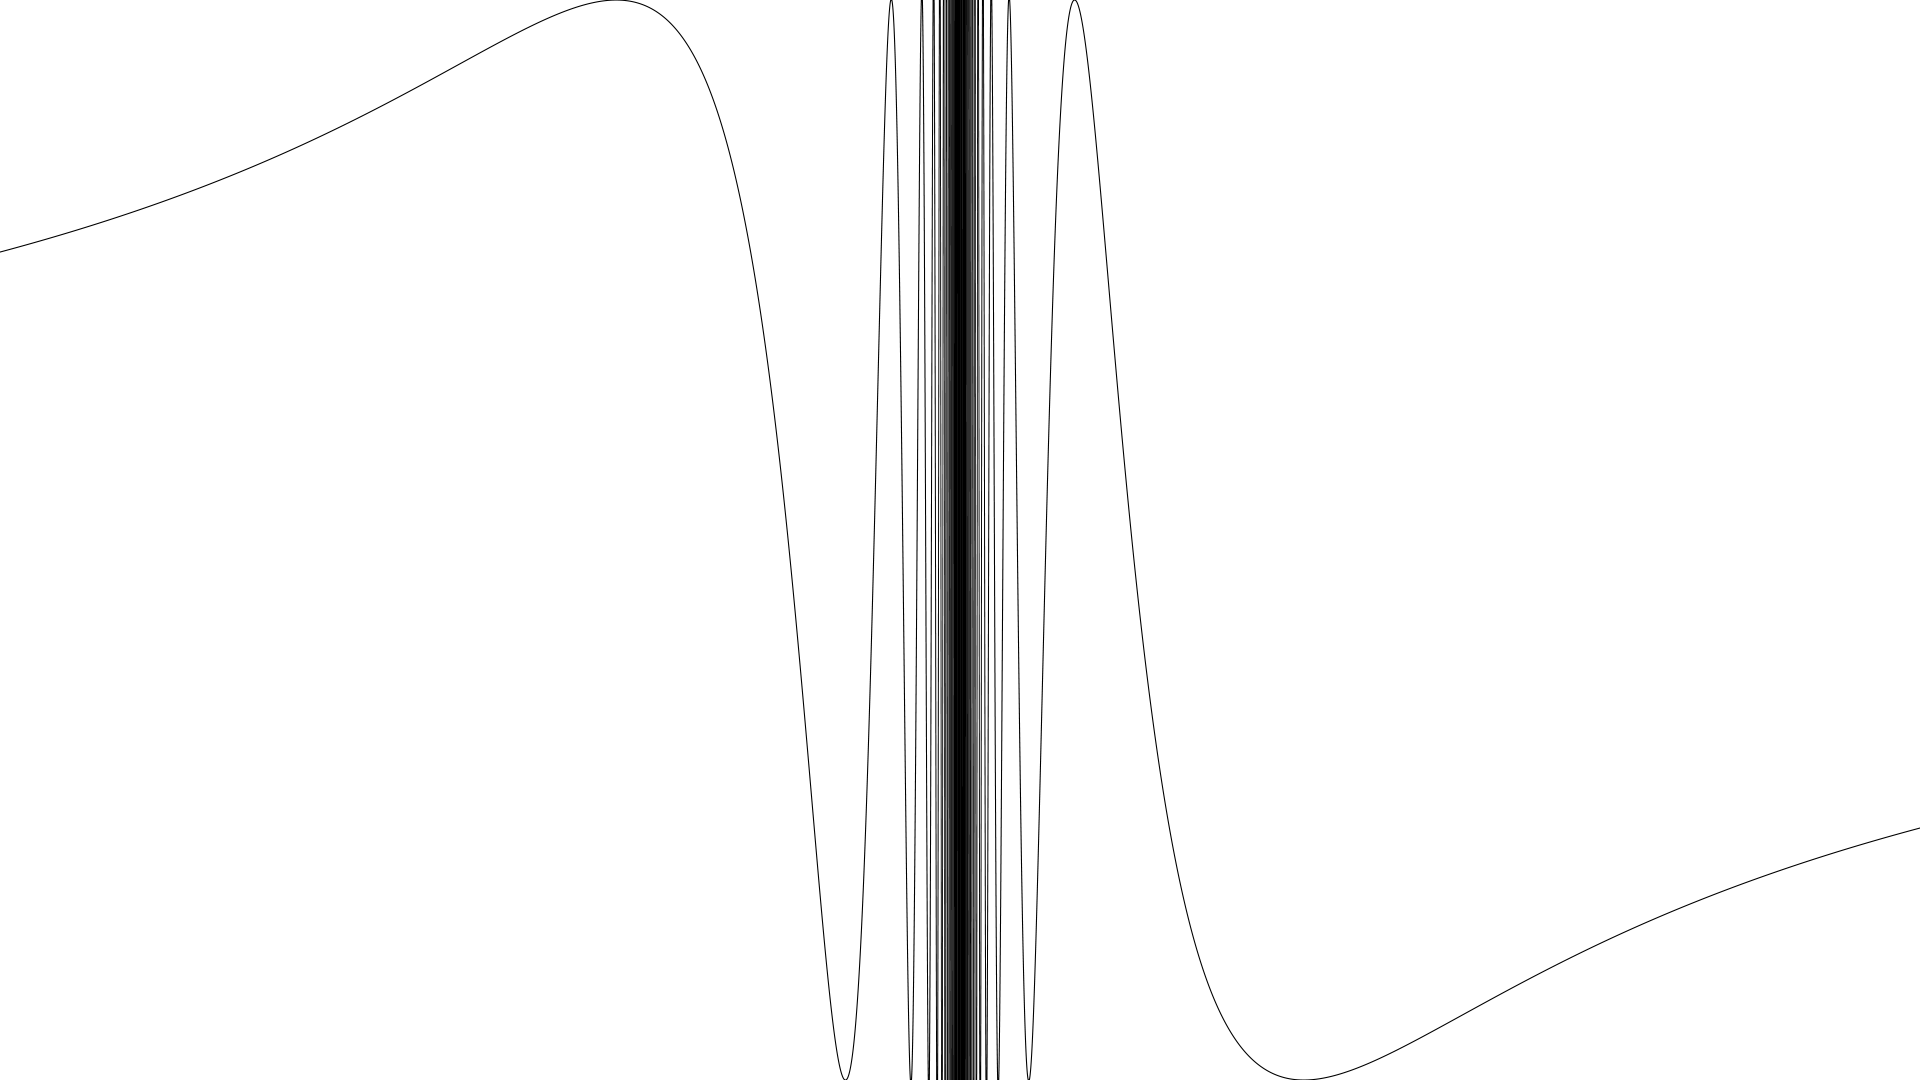
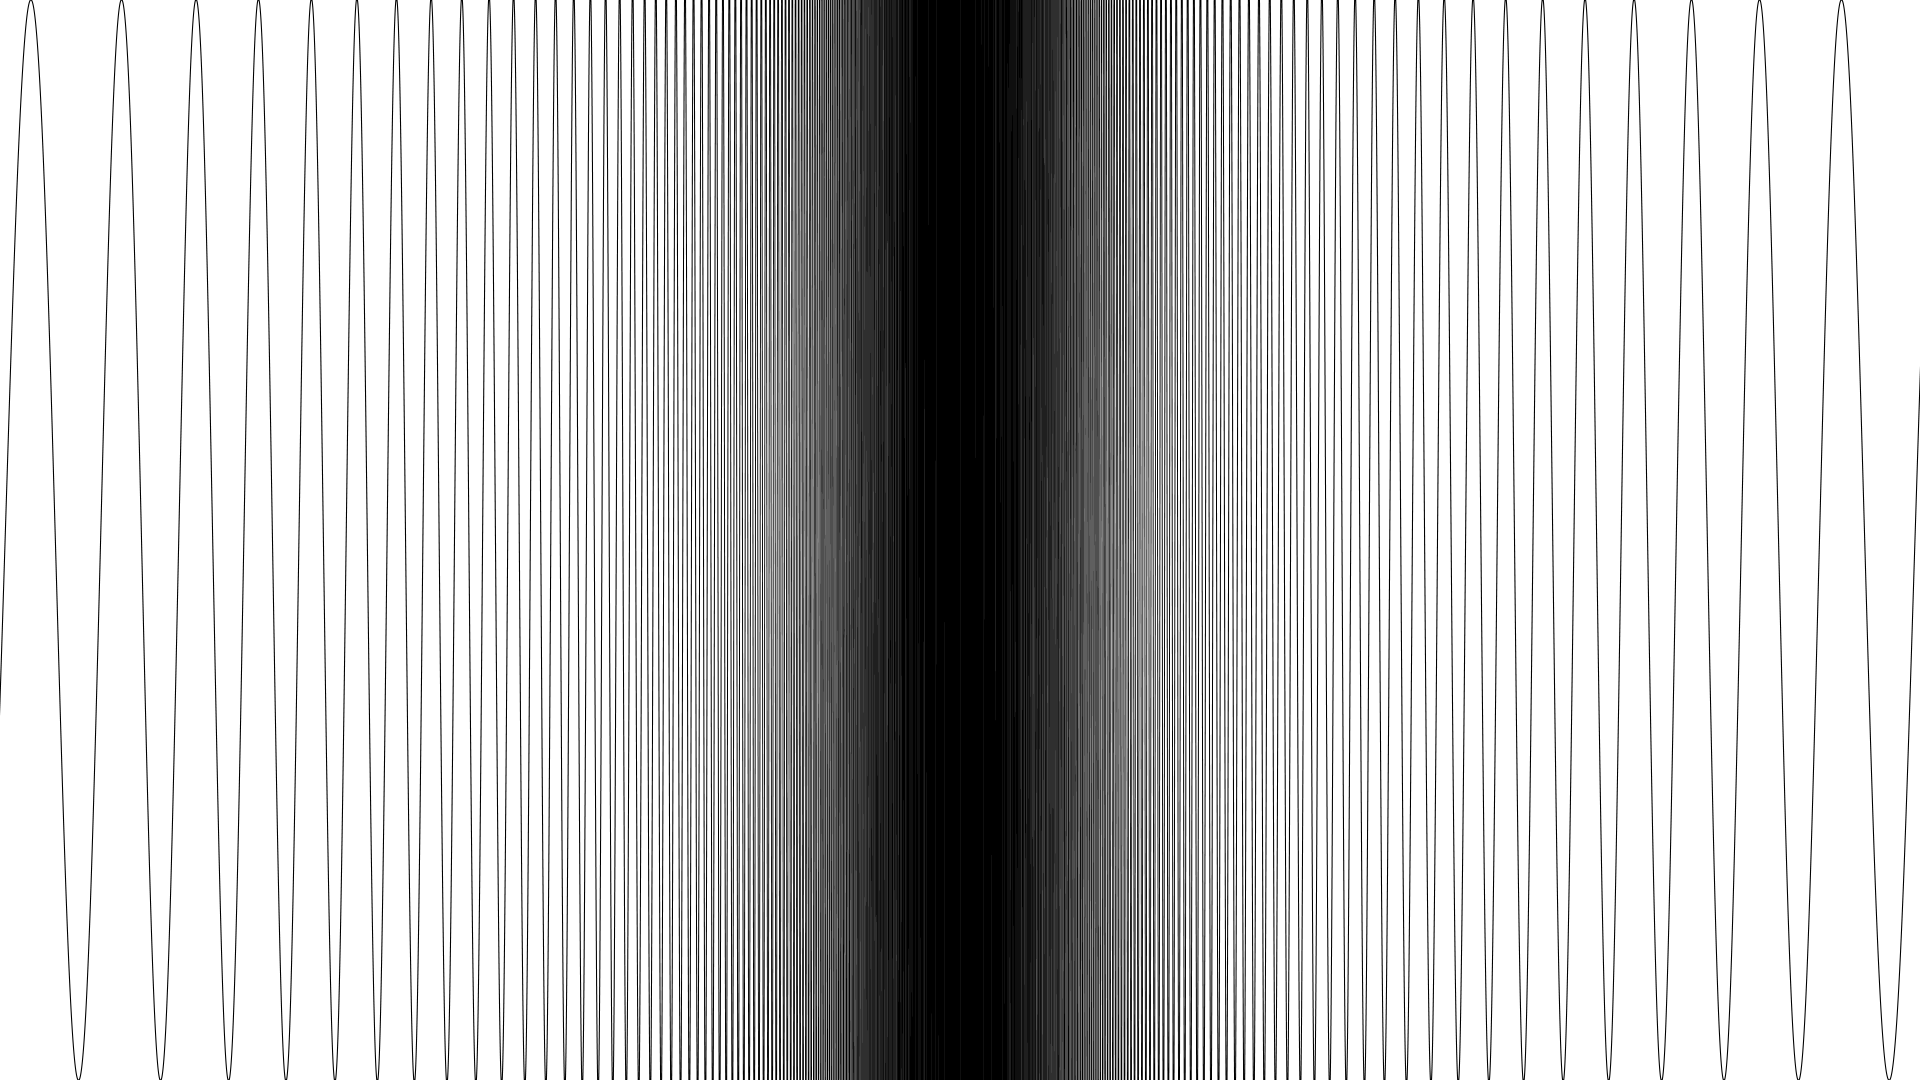
Move the code that determines whether there is a near root to a separate function. Add a parameter `stretch` in the example with sin(1/x).

diff --git a/src/lib.rs b/src/lib.rs
@@ -107,6 +107,18 @@ where
     }
 }
 
+// Checks whether there is at least one root of f(x, y) at the distance at most
+// `max_distance` from the point (x0, y0).
+fn has_near_root<F, G>(f: &F, gradient: &G, x0: f64, y0: f64, max_distance: f64) -> bool
+where
+    F: Fn(f64, f64) -> f64,
+    G: Fn(f64, f64) -> (f64, f64) {
+    let (gx, gy) = gradient(x0, y0);
+    let gradient_abs = (gx * gx + gy * gy).sqrt();
+    f(x0, y0).abs() < max_distance * gradient_abs
+}
+
+// Plots the graph of f(x, y) = 0.
 pub fn plot<F, G, P>(f: &F, gradient: &G, style: &Style<P>) -> ImageBuffer<P, Vec<u8>>
 where
     F: Fn(f64, f64) -> f64,
@@ -119,15 +131,14 @@ where
         let px = px as f64;
         let py = py as f64;
 
-        // TODO: Add a heuristic to skip subpixel iterations when we are far away from any roots (gradient is big, and second derivatives are low).
+        // TODO: Add a heuristic to skip subpixel iterations when we are far away from any roots
+        // (gradient and second derivatives are low).
 
         let mut count = 0;
         for dx in 0..16 {
             for dy in 0..16 {
                 let (x, y) = style.pixel_to_coords(px + dx as f64 / 16., py + dy as f64 / 16.);
-                let (gx, gy) = gradient(x, y);
-                let gradient_abs = (gx * gx + gy * gy).sqrt();
-                if f(x, y).abs() < style.width * gradient_abs {
+                if has_near_root(f, gradient, x, y, style.width) {
                     count += 1;
                 }
             }

diff --git a/examples/test1.rs b/examples/test1.rs
@@ -3,17 +3,15 @@ use image::Luma;
 
 fn main() {
     let style: grapheq::Style<Luma<u8>> = grapheq::Style::new();
-    // let buffer = grapheq::plot(
-    //     &|x, y| x * x + y * y - 1.0,
-    //     &style
-    // );
+    let stretch = 100.0;
     let buffer = grapheq::plot(
-        &|x, y| y - (1./x).sin(),
+        &|x, y| y - (stretch / x).sin(),
         &|x, _y| (
-            (1./x).cos() / (x*x),
+            stretch * (stretch/x).cos() / (x*x),
             1.,
         ),
         &style
     );
+    println!("Writing a.png");
     buffer.save("a.png").unwrap()
 }
